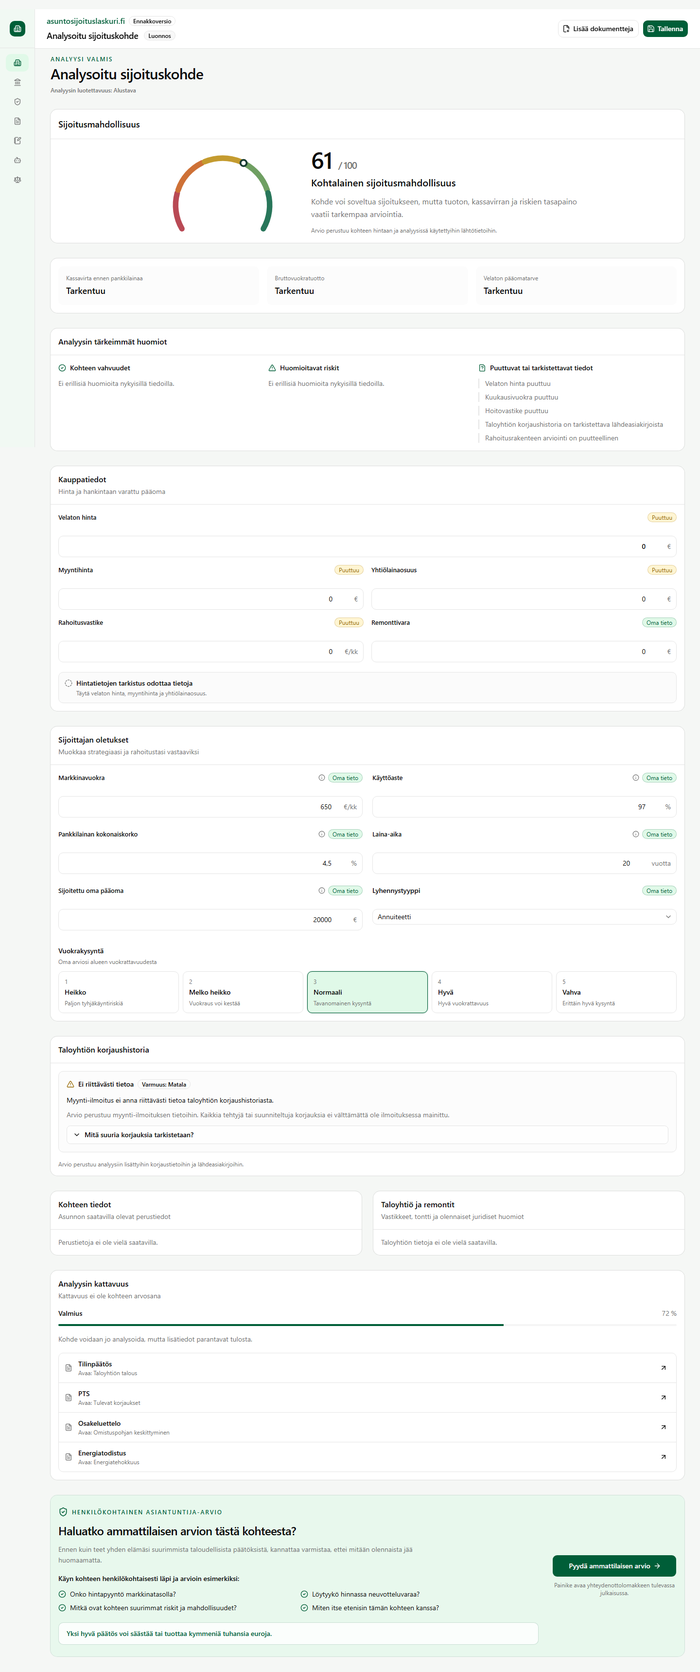
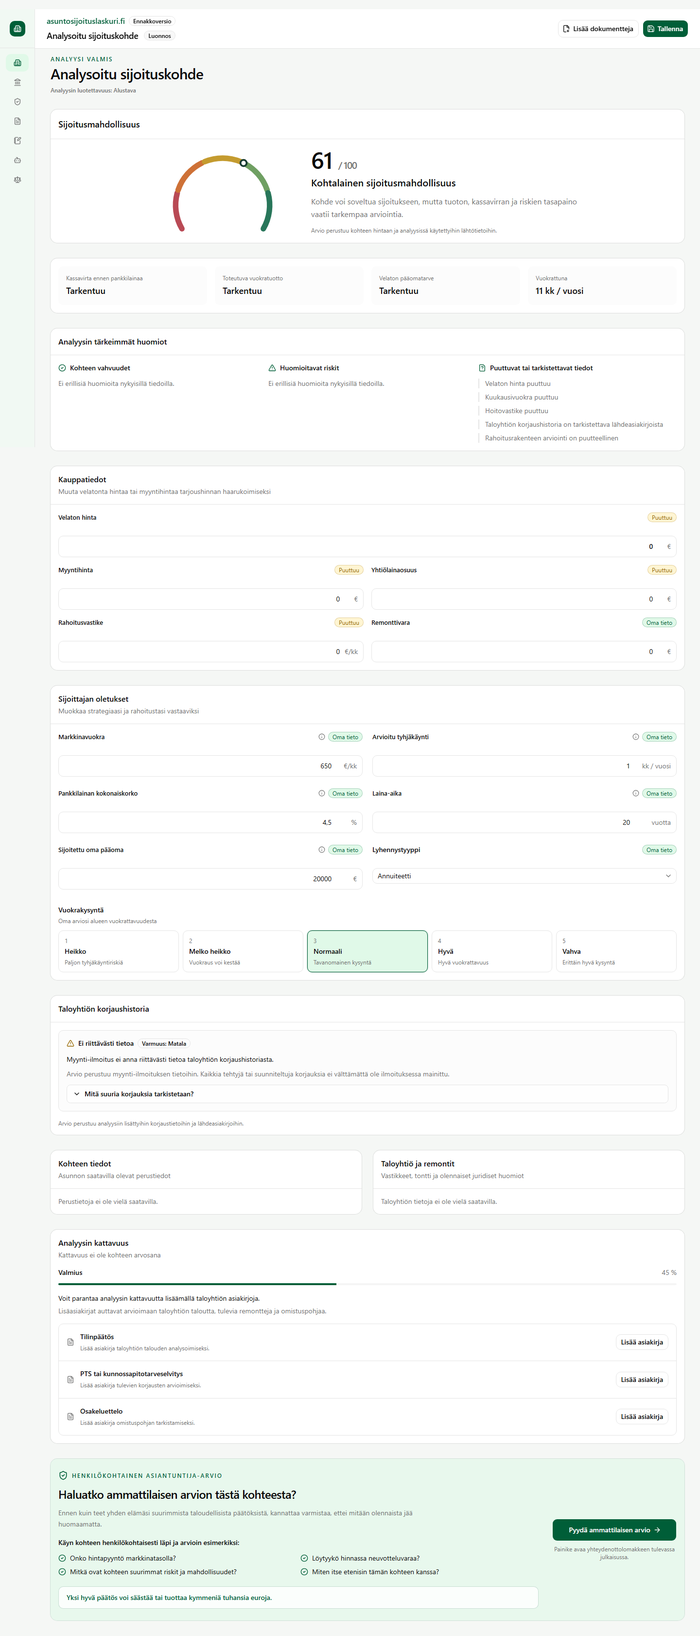
Improve responsive pricing and analysis coverage
- Added automatic synchronization between debt-free price, selling price and debt share
- Removed mismatch warnings during normal price simulations
- Changed occupancy input from percentage to vacancy months per year
- Updated rental income calculations for vacancy months
- Removed energy certificate from primary analysis coverage
- Clarified document upload descriptions and actions
- Added document processing states and responsive behavior
- Added regression tests for pricing, vacancy and coverage flows

diff --git a/src/components/property/purchase-card.tsx b/src/components/property/purchase-card.tsx
@@ -1,31 +1,29 @@
 "use client";
 
-import { AlertCircle, CheckCircle2, CircleDashed } from "lucide-react";
+import { AlertCircle } from "lucide-react";
+import { useState } from "react";
 import { Card, CardContent, CardDescription, CardHeader, CardTitle } from "@/components/ui/card";
-import { effectiveFinancingFeeMonthly, expectedDebtFreePrice, pricesAreConsistent } from "@/core/calculations/purchase-price";
 import type { FieldStatus } from "@/core/domain/field";
-import { formatEuro, formatMonthlyEuro } from "@/core/parser/normalization";
+import { effectiveFinancingFeeMonthly } from "@/core/calculations/purchase-price";
+import { formatFinnishNumber, formatMonthlyEuro } from "@/core/parser/normalization";
 import { validatePurchaseData } from "@/core/validation/purchase-data";
 import type { PurchaseFieldKey } from "@/data/property-demo";
 import { PropertyField } from "./property-field";
 
 type Props = { values: Record<PurchaseFieldKey, number>; statuses: Record<PurchaseFieldKey, FieldStatus>; onChange: (key: PurchaseFieldKey, value: number) => void };
-
-const fields: Array<{ key: PurchaseFieldKey; label: string; suffix: string }> = [
-  { key: "debtFreePrice", label: "Velaton hinta", suffix: "€" },
-  { key: "salePrice", label: "Myyntihinta", suffix: "€" },
-  { key: "companyLoanShare", label: "Yhtiölainaosuus", suffix: "€" },
-  { key: "financingFeeMonthly", label: "Rahoitusvastike", suffix: "€/kk" },
-  { key: "renovationReserve", label: "Remonttivara", suffix: "€" },
-];
+const fields: Array<{ key: PurchaseFieldKey; label: string; suffix: string }> = [{ key: "debtFreePrice", label: "Velaton hinta", suffix: "€" }, { key: "salePrice", label: "Myyntihinta", suffix: "€" }, { key: "companyLoanShare", label: "Yhtiölainaosuus", suffix: "€" }, { key: "financingFeeMonthly", label: "Rahoitusvastike", suffix: "€/kk" }, { key: "renovationReserve", label: "Remonttivara", suffix: "€" }];
+const formatDraft = (value: number) => value ? formatFinnishNumber(value, 2) : "0";
+const parseDraft = (value: string) => Number(value.replace(/[\s\u00a0]/g, "").replace(",", "."));
 
 export function PurchaseCard({ values, statuses, onChange }: Props) {
-  const canCompare = statuses.debtFreePrice !== "missing" && statuses.salePrice !== "missing" && statuses.companyLoanShare !== "missing";
-  const consistent = canCompare && pricesAreConsistent(values.debtFreePrice, values.salePrice, values.companyLoanShare);
   const noCompanyLoan = statuses.companyLoanShare !== "missing" && values.companyLoanShare === 0;
   const shownFee = effectiveFinancingFeeMonthly(values.companyLoanShare, values.financingFeeMonthly);
-  const calculatedPrice = expectedDebtFreePrice(values.salePrice, values.companyLoanShare);
-  const conflicts = canCompare ? validatePurchaseData({ debtFreePrice: values.debtFreePrice, salePrice: values.salePrice, companyLoanShare: values.companyLoanShare, reportedFinancingFeeMonthly: values.financingFeeMonthly }) : [];
-  const financingConflict = conflicts.find((conflict) => conflict.code === "company_loan_fee_conflict");
-  return <Card><CardHeader className="border-b"><CardTitle>Kauppatiedot</CardTitle><CardDescription>Hinta ja hankintaan varattu pääoma</CardDescription></CardHeader><CardContent className="space-y-5"><div className="grid gap-4 sm:grid-cols-2">{fields.map(({ key, label, suffix }) => <div key={key} className={key === "debtFreePrice" ? "sm:col-span-2" : undefined}><PropertyField id={`purchase-${key}`} label={label} status={statuses[key]} suffix={suffix} type="number" min={0} value={values[key]} disabled={key === "financingFeeMonthly" && noCompanyLoan} onChange={(event) => onChange(key, Math.max(0, event.currentTarget.valueAsNumber || 0))} className={key === "debtFreePrice" ? "text-base font-semibold" : undefined} />{key === "financingFeeMonthly" && noCompanyLoan ? <p className="mt-1.5 text-xs font-medium text-success">Ei yhtiölainaa · laskennallinen vastike {formatMonthlyEuro(shownFee)}</p> : null}</div>)}</div>{financingConflict ? <div role="alert" className="flex gap-2 rounded-lg border border-danger/20 bg-danger-soft p-3 text-sm text-danger"><AlertCircle className="mt-0.5 size-4 shrink-0" /><div><p className="font-medium">Lähtötiedoissa on ristiriita</p><p className="mt-0.5 text-xs">{financingConflict.message} Dokumentista saatu arvo {formatMonthlyEuro(values.financingFeeMonthly)} säilytettiin, eikä sitä ylikirjoitettu.</p></div></div> : null}{!canCompare ? <div role="status" className="flex gap-2 rounded-lg border bg-muted/40 p-3 text-sm text-muted-foreground"><CircleDashed className="mt-0.5 size-4 shrink-0" /><div><p className="font-medium text-foreground">Hintatietojen tarkistus odottaa tietoja</p><p className="mt-0.5 text-xs">Täytä velaton hinta, myyntihinta ja yhtiölainaosuus.</p></div></div> : <div role="status" className={`flex gap-2 rounded-lg border p-3 text-sm ${consistent ? "border-success/20 bg-success-soft text-success" : "border-danger/20 bg-danger-soft text-danger"}`}>{consistent ? <CheckCircle2 className="mt-0.5 size-4 shrink-0" /> : <AlertCircle className="mt-0.5 size-4 shrink-0" />}<div><p className="font-medium">{consistent ? "Hintatiedot täsmäävät" : "Hintatiedot eivät täsmää"}</p>{!consistent ? <p className="mt-0.5 text-xs">Myyntihinta {formatEuro(values.salePrice)} + yhtiölainaosuus {formatEuro(values.companyLoanShare)} = {formatEuro(calculatedPrice)}, mutta ilmoitettu velaton hinta on {formatEuro(values.debtFreePrice)}. Arvoja ei muutettu automaattisesti.</p> : null}</div></div>}</CardContent></Card>;
+  const financingConflict = validatePurchaseData({ debtFreePrice: values.debtFreePrice, salePrice: values.salePrice, companyLoanShare: values.companyLoanShare, reportedFinancingFeeMonthly: values.financingFeeMonthly }).find((conflict) => conflict.code === "company_loan_fee_conflict");
+  return <Card><CardHeader className="border-b"><CardTitle>Kauppatiedot</CardTitle><CardDescription>Muuta velatonta hintaa tai myyntihintaa tarjoushinnan haarukoimiseksi</CardDescription></CardHeader><CardContent className="space-y-5"><div className="grid grid-cols-1 gap-4 sm:grid-cols-2">{fields.map(({ key, label, suffix }) => <div key={key} className={key === "debtFreePrice" ? "sm:col-span-2" : undefined}><DraftPurchaseField key={`${key}-${values[key]}`} fieldKey={key} label={label} suffix={suffix} value={values[key]} status={statuses[key]} disabled={key === "financingFeeMonthly" && noCompanyLoan} onCommit={onChange} />{key === "financingFeeMonthly" && noCompanyLoan ? <p className="mt-1.5 text-xs font-medium text-success">Ei yhtiölainaa · laskennallinen vastike {formatMonthlyEuro(shownFee)}</p> : null}</div>)}</div>{financingConflict ? <div role="alert" className="flex gap-2 rounded-lg border border-danger/20 bg-danger-soft p-3 text-sm text-danger"><AlertCircle className="mt-0.5 size-4 shrink-0" /><div><p className="font-medium">Lähtötiedoissa on ristiriita</p><p className="mt-0.5 text-xs">{financingConflict.message} Dokumentista saatu arvo säilytetään tarkistusta varten.</p></div></div> : null}</CardContent></Card>;
+}
+
+function DraftPurchaseField({ fieldKey, label, suffix, value, status, disabled, onCommit }: { fieldKey: PurchaseFieldKey; label: string; suffix: string; value: number; status: FieldStatus; disabled: boolean; onCommit: (key: PurchaseFieldKey, value: number) => void }) {
+  const [draft, setDraft] = useState(() => formatDraft(value));
+  function commit() { const parsed = parseDraft(draft); if (Number.isFinite(parsed)) onCommit(fieldKey, Math.max(0, parsed)); else setDraft(formatDraft(value)); }
+  return <PropertyField id={`purchase-${fieldKey}`} label={label} status={status} suffix={suffix} type="text" inputMode="decimal" value={draft} disabled={disabled} onChange={(event) => setDraft(event.currentTarget.value)} onBlur={commit} onKeyDown={(event) => { if (event.key === "Enter") event.currentTarget.blur(); }} className={fieldKey === "debtFreePrice" ? "text-base font-semibold" : undefined} />;
 }

diff --git a/src/components/property/property-workspace.tsx b/src/components/property/property-workspace.tsx
@@ -4,6 +4,8 @@ import { useState } from "react";
 import { TooltipProvider } from "@/components/ui/tooltip";
 import { analysisFacts, analysisTitle } from "@/core/analysis/analysis-presentation";
 import { adaptInvestmentScore } from "@/core/analysis/investment-score-adapter";
+import { occupancyFromVacancyMonths } from "@/core/calculations/occupancy";
+import { synchronizePrices, type PrimaryPriceField } from "@/core/calculations/purchase-price";
 import type { AnalysisReliability } from "@/core/analysis/requirements";
 import type { FieldStatus } from "@/core/domain/field";
 import type { ListingParseResult, RenovationFinding } from "@/core/parser/listing-parser";
@@ -30,26 +32,30 @@ export function PropertyWorkspace({ importedData = {}, title, onRequestEvaluatio
   const [data, setData] = useState(importedData);
   const [purchase, setPurchase] = useState<Record<PurchaseFieldKey, number>>(() => purchaseFromImport(importedData));
   const [statuses, setStatuses] = useState<Record<PurchaseFieldKey, FieldStatus>>({ debtFreePrice: importedData.debtFreePrice === undefined ? "missing" : "parser", salePrice: importedData.salePrice === undefined ? "missing" : "parser", companyLoanShare: importedData.companyLoanShare === undefined ? "missing" : "parser", financingFeeMonthly: importedData.financingFeeMonthly === undefined ? "missing" : "parser", renovationReserve: "user" });
+  const [lastEditedPriceField, setLastEditedPriceField] = useState<PrimaryPriceField>("debtFreePrice");
+  const [vacancyMonths, setVacancyMonths] = useState(1);
   const repairHistory = assessRepairHistory({ renovations: data.renovations ?? [], constructionYear: typeof data.constructionYear === "number" ? data.constructionYear : undefined, documentKinds: data.documentKinds ?? [], buildingType: typeof data.buildingType === "string" ? data.buildingType : undefined });
-  const scoreSource = { debtFreePrice: purchase.debtFreePrice, currentRentMonthly: typeof data.currentRentMonthly === "number" ? data.currentRentMonthly : undefined, maintenanceFeeMonthly: typeof data.maintenanceFeeMonthly === "number" ? data.maintenanceFeeMonthly : undefined, financingFeeMonthly: purchase.financingFeeMonthly, companyLoanShare: purchase.companyLoanShare, repairHistory };
+  const occupancy = occupancyFromVacancyMonths(vacancyMonths);
+  const scoreSource = { debtFreePrice: purchase.debtFreePrice, currentRentMonthly: typeof data.currentRentMonthly === "number" ? data.currentRentMonthly * occupancy.occupancyRate : undefined, maintenanceFeeMonthly: typeof data.maintenanceFeeMonthly === "number" ? data.maintenanceFeeMonthly : undefined, financingFeeMonthly: purchase.financingFeeMonthly, companyLoanShare: purchase.companyLoanShare, repairHistory };
   const overallScore = adaptInvestmentScore(scoreSource);
   const presentationData = { ...data, listingTitle: data.listingTitle ?? (title && title !== "Uusi kohde" ? title : undefined) };
   const pageTitle = analysisTitle(presentationData);
   const facts = analysisFacts(presentationData);
   const reliability = data.analysisReliability === "high" ? "Korkea" : data.analysisReliability === "moderate" ? "Kohtalainen" : "Alustava";
 
-  function updatePurchase(key: PurchaseFieldKey, value: number) { setPurchase((current) => ({ ...current, [key]: value })); setStatuses((current) => ({ ...current, [key]: "user" })); }
+  function updatePurchase(key: PurchaseFieldKey, value: number) { setPurchase((current) => ["debtFreePrice", "salePrice", "companyLoanShare"].includes(key) ? { ...current, ...synchronizePrices(current, key as "debtFreePrice" | "salePrice" | "companyLoanShare", value, lastEditedPriceField) } : { ...current, [key]: value }); if (key === "debtFreePrice" || key === "salePrice") setLastEditedPriceField(key); setStatuses((current) => ({ ...current, [key]: "user", ...(key === "debtFreePrice" ? { salePrice: "derived" as const } : key === "salePrice" ? { debtFreePrice: "derived" as const } : key === "companyLoanShare" ? { [lastEditedPriceField === "debtFreePrice" ? "salePrice" : "debtFreePrice"]: "derived" as const } : {}) })); }
+  function addDocument(kind: RepairDocumentKind) { setData((current) => ({ ...current, documentKinds: [...new Set([...(current.documentKinds ?? []), kind])] })); }
   function updateImportedField(field: NormalizedFieldKey, value: number | string | undefined) { setData((current) => { const next = { ...current }; if (value === undefined) delete next[field]; else next[field] = value; return next; }); if (["debtFreePrice", "salePrice", "companyLoanShare", "financingFeeMonthly"].includes(field)) setPurchase((current) => ({ ...current, [field]: typeof value === "number" ? value : 0 })); }
 
   return <TooltipProvider><div className="min-h-screen"><WorkspaceSidebar /><div className="min-w-0 min-[1100px]:pl-18 min-[1600px]:pl-60"><WorkspaceHeader title={pageTitle} location={typeof data.city === "string" ? data.city : ""} /><main className="mx-auto w-full max-w-[1500px] min-w-0 p-4 md:p-6 lg:p-8"><div className="min-w-0 space-y-8">
     <header><p className="text-xs font-semibold uppercase tracking-[0.16em] text-success">Analyysi valmis</p><h1 className="mt-1 break-words text-2xl font-semibold tracking-tight sm:text-3xl">{pageTitle}</h1>{facts.length ? <p className="mt-2 text-sm text-muted-foreground">{facts.join(" · ")}</p> : null}<p className="mt-2 text-xs font-medium text-muted-foreground">Analyysin luotettavuus: {reliability}</p></header>
     <InvestmentOverallScore {...overallScore} />
-    <KeyMetrics data={{ ...data, debtFreePrice: purchase.debtFreePrice, financingFeeMonthly: purchase.financingFeeMonthly, companyLoanShare: purchase.companyLoanShare }} />
+    <KeyMetrics data={{ ...data, debtFreePrice: purchase.debtFreePrice, financingFeeMonthly: purchase.financingFeeMonthly, companyLoanShare: purchase.companyLoanShare }} vacancyMonths={vacancyMonths} />
     <AnalysisHighlights rating={overallScore} />
-    <section id="talous" className="scroll-mt-24 space-y-8"><PurchaseCard values={purchase} statuses={statuses} onChange={updatePurchase} /><AssumptionsCard importedData={data} /></section>
+    <section id="talous" className="scroll-mt-24 space-y-8"><PurchaseCard values={purchase} statuses={statuses} onChange={updatePurchase} /><AssumptionsCard importedData={data} vacancyMonths={vacancyMonths} onVacancyMonthsChange={setVacancyMonths} /></section>
     <DecisionSummaryCard repairHistory={repairHistory} />
     <section id="kohde" className="grid min-w-0 scroll-mt-24 gap-6 lg:grid-cols-2"><PropertyDetailsCard importedData={data} /><HousingCompanyCard importedData={data} /></section>
-    <AnalysisCoverageCard />
+    <AnalysisCoverageCard documentKinds={data.documentKinds} onDocumentAdded={addDocument} />
     {data.importReview ? <section id="dokumentit" className="scroll-mt-24"><h2 className="mb-3 text-lg font-semibold">Analyysin lähtötiedot</h2><ImportSourceReview result={data.importReview} onChange={updateImportedField} /></section> : null}
     <ProfessionalEvaluationCard onRequestEvaluation={onRequestEvaluation} />
   </div></main></div></div></TooltipProvider>;

diff --git a/src/components/property/analysis-coverage-card.tsx b/src/components/property/analysis-coverage-card.tsx
@@ -1,10 +1,25 @@
-import { ArrowUpRight, FileText } from "lucide-react";
+"use client";
+
+import { CheckCircle2, FileText } from "lucide-react";
+import { useRef, useState } from "react";
 import { Button } from "@/components/ui/button";
 import { Card, CardContent, CardDescription, CardHeader, CardTitle } from "@/components/ui/card";
 import { Progress, ProgressLabel, ProgressValue } from "@/components/ui/progress";
+import type { RepairDocumentKind } from "@/core/rules/repair-history";
 
-const documents = [["Tilinpäätös", "Taloyhtiön talous"], ["PTS", "Tulevat korjaukset"], ["Osakeluettelo", "Omistuspohjan keskittyminen"], ["Energiatodistus", "Energiatehokkuus"]] as const;
+type DocumentState = "missing" | "processing" | "analyzed" | "failed";
+const documents: ReadonlyArray<{ kind: RepairDocumentKind; name: string; description: string; weight: number }> = [
+  { kind: "financial_statements", name: "Tilinpäätös", description: "Lisää asiakirja taloyhtiön talouden analysoimiseksi.", weight: 25 },
+  { kind: "maintenance_plan", name: "PTS tai kunnossapitotarveselvitys", description: "Lisää asiakirja tulevien korjausten arvioimiseksi.", weight: 20 },
+  { kind: "shareholder_register", name: "Osakeluettelo", description: "Lisää asiakirja omistuspohjan tarkistamiseksi.", weight: 10 },
+];
 
-export function AnalysisCoverageCard() {
-  return <Card><CardHeader><CardTitle>Analyysin kattavuus</CardTitle><CardDescription>Kattavuus ei ole kohteen arvosana</CardDescription></CardHeader><CardContent className="space-y-4"><Progress value={72}><ProgressLabel>Valmius</ProgressLabel><ProgressValue>{() => "72 %"}</ProgressValue></Progress><p className="text-sm leading-relaxed text-muted-foreground">Kohde voidaan jo analysoida, mutta lisätiedot parantavat tulosta.</p><div className="divide-y rounded-lg border">{documents.map(([name, unlock]) => <div key={name} className="flex items-center gap-3 p-3"><FileText className="size-4 shrink-0 text-muted-foreground" /><div className="min-w-0 flex-1"><p className="text-sm font-medium">{name}</p><p className="truncate text-xs text-muted-foreground">Avaa: {unlock}</p></div><Button variant="ghost" size="icon-sm" aria-label={`Lisää ${name}`}><ArrowUpRight /></Button></div>)}</div></CardContent></Card>;
+export function AnalysisCoverageCard({ documentKinds = [], onDocumentAdded }: { documentKinds?: RepairDocumentKind[]; onDocumentAdded?: (kind: RepairDocumentKind) => void }) {
+  const [states, setStates] = useState<Record<string, DocumentState>>(() => Object.fromEntries(documents.map(({ kind }) => [kind, documentKinds.includes(kind) ? "analyzed" : "missing"])));
+  const [selectedKind, setSelectedKind] = useState<RepairDocumentKind>("financial_statements");
+  const fileInput = useRef<HTMLInputElement>(null);
+  const coverage = 45 + documents.reduce((sum, item) => sum + (states[item.kind] === "analyzed" ? item.weight : 0), 0);
+  function choose(kind: RepairDocumentKind) { setSelectedKind(kind); fileInput.current?.click(); }
+  function receiveFile(file?: File) { if (!file) return; setStates((current) => ({ ...current, [selectedKind]: "processing" })); queueMicrotask(() => { setStates((current) => ({ ...current, [selectedKind]: "analyzed" })); onDocumentAdded?.(selectedKind); }); }
+  return <Card><CardHeader><CardTitle>Analyysin kattavuus</CardTitle><CardDescription>Kattavuus ei ole kohteen arvosana</CardDescription></CardHeader><CardContent className="space-y-4"><Progress value={coverage}><ProgressLabel>Valmius</ProgressLabel><ProgressValue>{() => `${coverage} %`}</ProgressValue></Progress><div><p className="text-sm leading-relaxed">Voit parantaa analyysin kattavuutta lisäämällä taloyhtiön asiakirjoja.</p><p className="mt-1 text-sm text-muted-foreground">Lisäasiakirjat auttavat arvioimaan taloyhtiön taloutta, tulevia remontteja ja omistuspohjaa.</p></div><input ref={fileInput} type="file" className="sr-only" onChange={(event) => receiveFile(event.currentTarget.files?.[0])} /><div className="divide-y rounded-lg border">{documents.map((item) => <div key={item.kind} className="flex flex-col gap-3 p-4 sm:flex-row sm:items-center"><FileText className="size-4 shrink-0 text-muted-foreground" /><div className="min-w-0 flex-1"><p className="text-sm font-medium">{item.name}</p><p className="mt-1 text-xs leading-relaxed text-muted-foreground">{item.description}</p></div>{states[item.kind] === "analyzed" ? <span className="flex shrink-0 items-center gap-1.5 text-sm font-medium text-success"><CheckCircle2 className="size-4" />Analysoitu</span> : states[item.kind] === "processing" ? <span className="shrink-0 text-sm text-muted-foreground">Analysoidaan…</span> : states[item.kind] === "failed" ? <Button variant="outline" onClick={() => choose(item.kind)}>Yritä uudelleen</Button> : <Button className="w-full sm:w-auto" variant="outline" onClick={() => choose(item.kind)}>Lisää asiakirja</Button>}</div>)}</div></CardContent></Card>;
 }

diff --git a/tests/pricing-vacancy-coverage.test.ts b/tests/pricing-vacancy-coverage.test.ts
@@ -1,0 +1,16 @@
+import assert from "node:assert/strict";
+import { readFile } from "node:fs/promises";
+import test from "node:test";
+import { effectiveAnnualRent, occupancyFromVacancyMonths, vacancyMonthsFromOccupancyRate } from "../src/core/calculations/occupancy.ts";
+import { synchronizePrices } from "../src/core/calculations/purchase-price.ts";
+
+test("velaton hinta päivittää myyntihinnan", () => { assert.deepEqual(synchronizePrices({ debtFreePrice: 0, salePrice: 0, companyLoanShare: 15_000 }, "debtFreePrice", 158_989, "debtFreePrice"), { debtFreePrice: 158_989, salePrice: 143_989, companyLoanShare: 15_000 }); });
+test("myyntihinta päivittää velattoman hinnan", () => { assert.deepEqual(synchronizePrices({ debtFreePrice: 0, salePrice: 0, companyLoanShare: 15_000 }, "salePrice", 144_000, "debtFreePrice"), { debtFreePrice: 159_000, salePrice: 144_000, companyLoanShare: 15_000 }); });
+test("yhtiölaina säilyttää viimeksi ensisijaisen hintakentän", () => { assert.deepEqual(synchronizePrices({ debtFreePrice: 159_000, salePrice: 144_000, companyLoanShare: 15_000 }, "companyLoanShare", 20_000, "debtFreePrice"), { debtFreePrice: 159_000, salePrice: 139_000, companyLoanShare: 20_000 }); assert.deepEqual(synchronizePrices({ debtFreePrice: 159_000, salePrice: 144_000, companyLoanShare: 15_000 }, "companyLoanShare", 20_000, "salePrice"), { debtFreePrice: 164_000, salePrice: 144_000, companyLoanShare: 20_000 }); });
+
+test("tyhjäkäyntikuukaudet muunnetaan käyttöasteeksi ja clampataan", () => { assert.deepEqual(occupancyFromVacancyMonths(0), { vacancyMonths: 0, occupiedMonths: 12, occupancyRate: 1, occupancyRatePercent: 100 }); assert.equal(occupancyFromVacancyMonths(1).occupancyRate, 11 / 12); assert.equal(occupancyFromVacancyMonths(2).occupancyRate, 10 / 12); assert.equal(occupancyFromVacancyMonths(-2).vacancyMonths, 0); assert.equal(occupancyFromVacancyMonths(15).vacancyMonths, 12); assert.equal(vacancyMonthsFromOccupancyRate(97), 0); });
+test("toteutuva vuosivuokra käyttää vuokrattuja kuukausia", () => { assert.equal(effectiveAnnualRent(750, 1), 8_250); assert.equal(effectiveAnnualRent(750, 12), 0); });
+
+test("hintakenttä säilyttää tekstiluonnoksen kirjoittamisen ajan eikä näytä normaalia hintavirhettä", async () => { const source = await readFile(new URL("../src/components/property/purchase-card.tsx", import.meta.url), "utf8"); assert.match(source, /useState\(\(\) => formatDraft\(value\)\)/); assert.match(source, /onBlur=\{commit\}/); assert.doesNotMatch(source, /Hintatiedot eivät täsmää/); });
+test("käyttöaste näkyy tyhjäkäyntikuukausina", async () => { const source = await readFile(new URL("../src/components/property/assumptions-card.tsx", import.meta.url), "utf8"); assert.match(source, /Arvioitu tyhjäkäynti/); assert.match(source, /kk \/ vuosi/); assert.doesNotMatch(source, /label="Käyttöaste"|suffix="%"[^\n]*occupancy/); });
+test("kattavuuslista sisältää kolme olennaista asiakirjaa ja selkeät toiminnot", async () => { const source = await readFile(new URL("../src/components/property/analysis-coverage-card.tsx", import.meta.url), "utf8"); for (const text of ["Lisää asiakirja taloyhtiön talouden analysoimiseksi.", "Lisää asiakirja tulevien korjausten arvioimiseksi.", "Lisää asiakirja omistuspohjan tarkistamiseksi.", "Lisää asiakirja", "Analysoidaan…", "Analysoitu", "Yritä uudelleen"]) assert.ok(source.includes(text)); assert.doesNotMatch(source, /Energiatodistus|Avaa:/); assert.match(source, /setStates/); assert.match(source, /onDocumentAdded/); assert.match(source, /sm:flex-row/); assert.match(source, /w-full sm:w-auto/); });

diff --git a/src/components/property/analysis-summary.tsx b/src/components/property/analysis-summary.tsx
@@ -1,19 +1,22 @@
 import { AlertTriangle, CheckCircle2, FileQuestion } from "lucide-react";
 import { Card, CardContent, CardHeader, CardTitle } from "@/components/ui/card";
 import { formatFinnishNumber } from "@/core/parser/normalization";
+import { effectiveAnnualRent, occupancyFromVacancyMonths } from "@/core/calculations/occupancy";
 import type { InvestmentOverallScoreData } from "@/core/analysis/investment-overall-score";
 import type { ImportedPropertyData } from "./property-workspace";
 
-export function KeyMetrics({ data }: { data: ImportedPropertyData }) {
+export function KeyMetrics({ data, vacancyMonths = 1 }: { data: ImportedPropertyData; vacancyMonths?: number }) {
   const price = typeof data.debtFreePrice === "number" && data.debtFreePrice > 0 ? data.debtFreePrice : undefined;
   const rent = typeof data.currentRentMonthly === "number" ? data.currentRentMonthly : undefined;
   const maintenance = typeof data.maintenanceFeeMonthly === "number" ? data.maintenanceFeeMonthly : undefined;
   const financing = typeof data.financingFeeMonthly === "number" ? data.financingFeeMonthly : 0;
-  const yieldValue = price && rent ? rent * 12 / price * 100 : undefined;
-  const cashFlow = rent !== undefined && maintenance !== undefined ? rent - maintenance - financing : undefined;
+  const occupancy = occupancyFromVacancyMonths(vacancyMonths);
+  const annualRent = rent === undefined ? undefined : effectiveAnnualRent(rent, vacancyMonths);
+  const yieldValue = price && annualRent !== undefined ? annualRent / price * 100 : undefined;
+  const cashFlow = annualRent !== undefined && maintenance !== undefined ? (annualRent - (maintenance + financing) * 12) / 12 : undefined;
   const equity = price !== undefined && typeof data.companyLoanShare === "number" ? price - data.companyLoanShare : undefined;
-  const metrics = [["Kassavirta ennen pankkilainaa", cashFlow === undefined ? "Tarkentuu" : `${formatFinnishNumber(cashFlow)} €/kk`], ["Bruttovuokratuotto", yieldValue === undefined ? "Tarkentuu" : `${formatFinnishNumber(yieldValue, 1)} %`], ["Velaton pääomatarve", equity === undefined ? "Tarkentuu" : `${formatFinnishNumber(equity)} €`]];
-  return <Card><CardContent><dl className="grid gap-4 sm:grid-cols-3">{metrics.map(([label, value]) => <div key={label} className="rounded-lg bg-muted/35 p-4"><dt className="text-xs text-muted-foreground">{label}</dt><dd className="mt-1 text-lg font-semibold">{value}</dd></div>)}</dl></CardContent></Card>;
+  const metrics = [["Kassavirta ennen pankkilainaa", cashFlow === undefined ? "Tarkentuu" : `${formatFinnishNumber(cashFlow)} €/kk`], ["Toteutuva vuokratuotto", yieldValue === undefined ? "Tarkentuu" : `${formatFinnishNumber(yieldValue, 1)} %`], ["Velaton pääomatarve", equity === undefined ? "Tarkentuu" : `${formatFinnishNumber(equity)} €`], ["Vuokrattuna", `${occupancy.occupiedMonths} kk / vuosi`]];
+  return <Card><CardContent><dl className="grid gap-4 sm:grid-cols-2 lg:grid-cols-4">{metrics.map(([label, value]) => <div key={label} className="rounded-lg bg-muted/35 p-4"><dt className="text-xs text-muted-foreground">{label}</dt><dd className="mt-1 text-lg font-semibold">{value}</dd></div>)}</dl></CardContent></Card>;
 }
 
 export function AnalysisHighlights({ rating }: { rating: InvestmentOverallScoreData }) {

diff --git a/src/components/property/assumptions-card.tsx b/src/components/property/assumptions-card.tsx
@@ -9,14 +9,14 @@ import { RentalDemandSelector } from "./rental-demand-selector";
 import { SourceBadge } from "./status-badge";
 import type { ImportedPropertyData } from "./property-workspace";
 
-export function AssumptionsCard({ importedData = {} }: { importedData?: ImportedPropertyData }) {
+export function AssumptionsCard({ importedData = {}, vacancyMonths = 1, onVacancyMonthsChange }: { importedData?: ImportedPropertyData; vacancyMonths?: number; onVacancyMonthsChange?: (value: number) => void }) {
   const [demand, setDemand] = useState(3);
   const [repaymentType, setRepaymentType] = useState("annuity");
   const repaymentLabels: Record<string, string> = { annuity: "Annuiteetti", equal: "Tasalyhennys", bullet: "Kertalyhenteinen laina" };
   return (
     <Card><CardHeader className="border-b"><CardTitle>Sijoittajan oletukset</CardTitle><CardDescription>Muokkaa strategiaasi ja rahoitustasi vastaaviksi</CardDescription></CardHeader><CardContent className="space-y-8"><div className="grid min-w-0 grid-cols-1 gap-x-5 gap-y-6 sm:grid-cols-2 min-[1600px]:grid-cols-3">
       <PropertyField id="market-rent" label="Markkinavuokra" status={importedData.currentRentMonthly === undefined ? "user" : "parser"} suffix="€/kk" type="number" defaultValue={typeof importedData.currentRentMonthly === "number" ? importedData.currentRentMonthly : 650} help="Käytä realistista pitkän vuokrauksen markkinavuokraa." />
-      <PropertyField id="occupancy" label="Käyttöaste" status="user" suffix="%" type="number" defaultValue={97} help="Osuus vuodesta, jolloin asunto on vuokrattuna." />
+      <PropertyField id="vacancy-months" label="Arvioitu tyhjäkäynti" status="user" suffix="kk / vuosi" type="number" min={0} max={12} step={1} value={vacancyMonths} onChange={(event) => onVacancyMonthsChange?.(Math.min(12, Math.max(0, Math.round(event.currentTarget.valueAsNumber || 0))))} help={vacancyMonths === 0 ? "Vuokrattuna koko vuoden" : `Vuokrattuna arviolta ${12 - vacancyMonths} kk vuodessa.`} />
       <PropertyField id="interest" label="Pankkilainan kokonaiskorko" status="user" suffix="%" type="number" step="0.1" defaultValue={4.5} help="Viitekorko ja pankin marginaali yhteensä." />
       <PropertyField id="loan-term" label="Laina-aika" status="user" suffix="vuotta" type="number" defaultValue={20} help="Pankkilainan suunniteltu takaisinmaksuaika." />
       <PropertyField id="equity" label="Sijoitettu oma pääoma" status="user" suffix="€" type="number" defaultValue={20000} help="Kauppaan sidottava oma raha." />

diff --git a/src/core/calculations/purchase-price.ts b/src/core/calculations/purchase-price.ts
@@ -56,6 +56,16 @@ export function expectedDebtFreePrice(
   return roundCurrency(salePrice + companyLoanShare);
 }
 
+export type PrimaryPriceField = "debtFreePrice" | "salePrice";
+export type SynchronizedPrices = { debtFreePrice: number; salePrice: number; companyLoanShare: number };
+
+export function synchronizePrices(current: SynchronizedPrices, changedField: keyof SynchronizedPrices, value: number, primaryField: PrimaryPriceField): SynchronizedPrices {
+  const nextValue = roundCurrency(Math.max(0, Number.isFinite(value) ? value : 0));
+  if (changedField === "debtFreePrice") return { ...current, debtFreePrice: nextValue, salePrice: roundCurrency(Math.max(0, nextValue - current.companyLoanShare)) };
+  if (changedField === "salePrice") return { ...current, salePrice: nextValue, debtFreePrice: roundCurrency(nextValue + current.companyLoanShare) };
+  return primaryField === "debtFreePrice" ? { ...current, companyLoanShare: nextValue, salePrice: roundCurrency(Math.max(0, current.debtFreePrice - nextValue)) } : { ...current, companyLoanShare: nextValue, debtFreePrice: roundCurrency(current.salePrice + nextValue) };
+}
+
 export function pricesAreConsistent(
   debtFreePrice: number,
   salePrice: number,

diff --git a/src/core/calculations/occupancy.ts b/src/core/calculations/occupancy.ts
@@ -1,0 +1,19 @@
+export function clampVacancyMonths(value: number | null | undefined): number {
+  return Number.isFinite(value) ? Math.min(12, Math.max(0, Math.round(value as number))) : 1;
+}
+
+export function occupancyFromVacancyMonths(value: number | null | undefined) {
+  const vacancyMonths = clampVacancyMonths(value);
+  const occupiedMonths = 12 - vacancyMonths;
+  return { vacancyMonths, occupiedMonths, occupancyRate: occupiedMonths / 12, occupancyRatePercent: occupiedMonths / 12 * 100 };
+}
+
+export function vacancyMonthsFromOccupancyRate(rate: number | null | undefined): number {
+  if (!Number.isFinite(rate)) return 1;
+  const normalized = (rate as number) > 1 ? (rate as number) / 100 : rate as number;
+  return clampVacancyMonths(12 * (1 - Math.min(1, Math.max(0, normalized))));
+}
+
+export function effectiveAnnualRent(monthlyRent: number, vacancyMonths: number): number {
+  return Math.max(0, Number.isFinite(monthlyRent) ? monthlyRent : 0) * occupancyFromVacancyMonths(vacancyMonths).occupiedMonths;
+}

diff --git a/src/core/rules/repair-history.ts b/src/core/rules/repair-history.ts
@@ -2,7 +2,7 @@ import type { ConfidenceLevel, RenovationComponent, RenovationFinding } from "..
 
 export type RepairScale = "maintenance" | "partial" | "major" | "study";
 export type RepairHistoryStatus = "major_recognized" | "partial_recognized" | "major_status_check" | "history_incomplete" | "insufficient_information";
-export type RepairDocumentKind = "listing" | "manager_certificate" | "maintenance_plan" | "financial_statements" | "annual_report" | "meeting_minutes";
+export type RepairDocumentKind = "listing" | "manager_certificate" | "maintenance_plan" | "financial_statements" | "annual_report" | "meeting_minutes" | "shareholder_register";
 export type MajorRepairSystem = "plumbing" | "facade_balconies" | "roof" | "drainage_foundations" | "heating" | "ventilation" | "elevators" | "yard_structures" | "energy";
 
 export type ClassifiedRepair = RenovationFinding & { scale: RepairScale; system?: MajorRepairSystem; classificationReason: string };

diff --git a/src/components/property/property-application.tsx b/src/components/property/property-application.tsx
@@ -27,6 +27,7 @@ export function PropertyApplication() {
       if (/tilinpäätös|tilinpaatos/.test(name)) kinds.add("financial_statements");
       if (/toimintakertomus/.test(name)) kinds.add("annual_report");
       if (/yhtiökokous|yhtiokokous|pöytäkirja|poytakirja/.test(name)) kinds.add("meeting_minutes");
+      if (/osakeluettelo/.test(name)) kinds.add("shareholder_register");
     }
     openWorkspace({ documentKinds: [...kinds] });
   }

diff --git a/reports/release-audit.md b/reports/release-audit.md
@@ -1,6 +1,6 @@
 # Release Audit
 
-Luotu: 2026-07-28T05:26:48.067Z
+Luotu: 2026-07-28T05:36:15.263Z
 
 ## Yhteenveto
 
